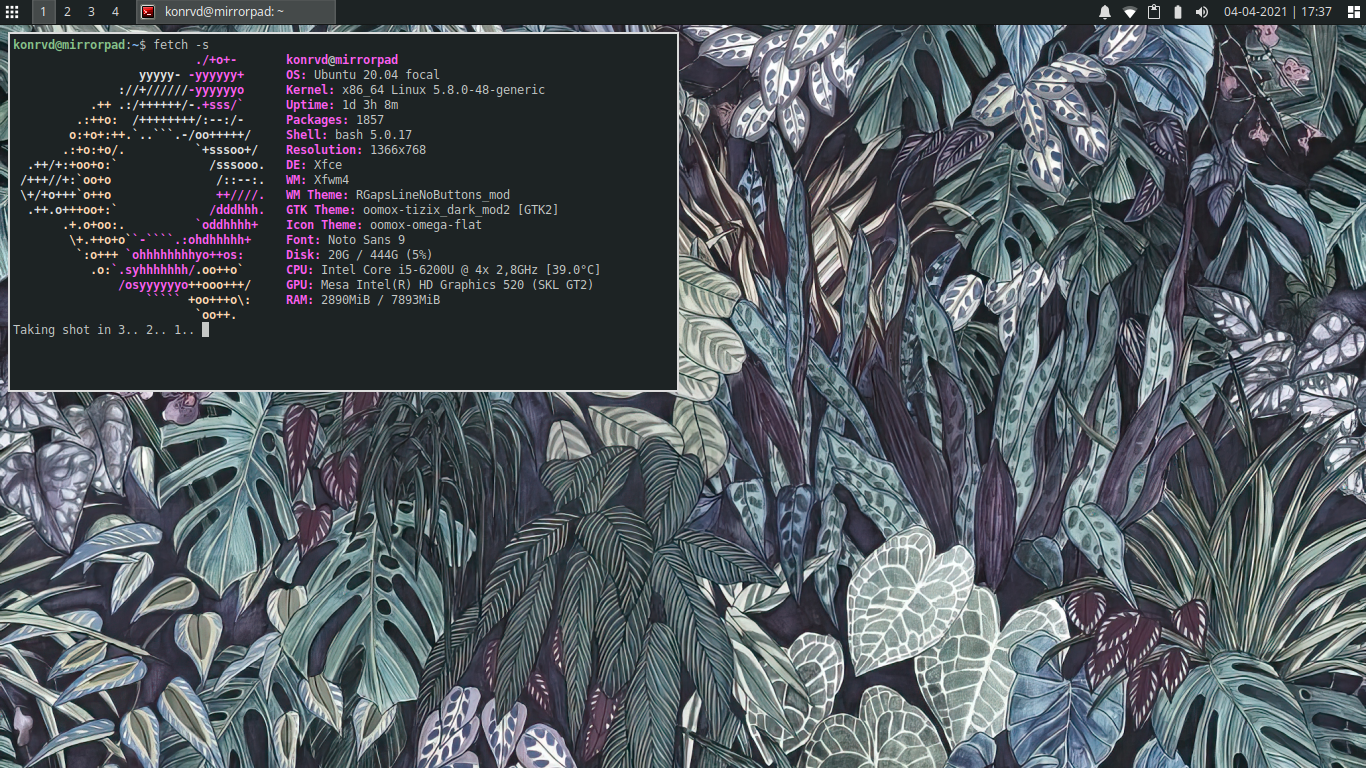
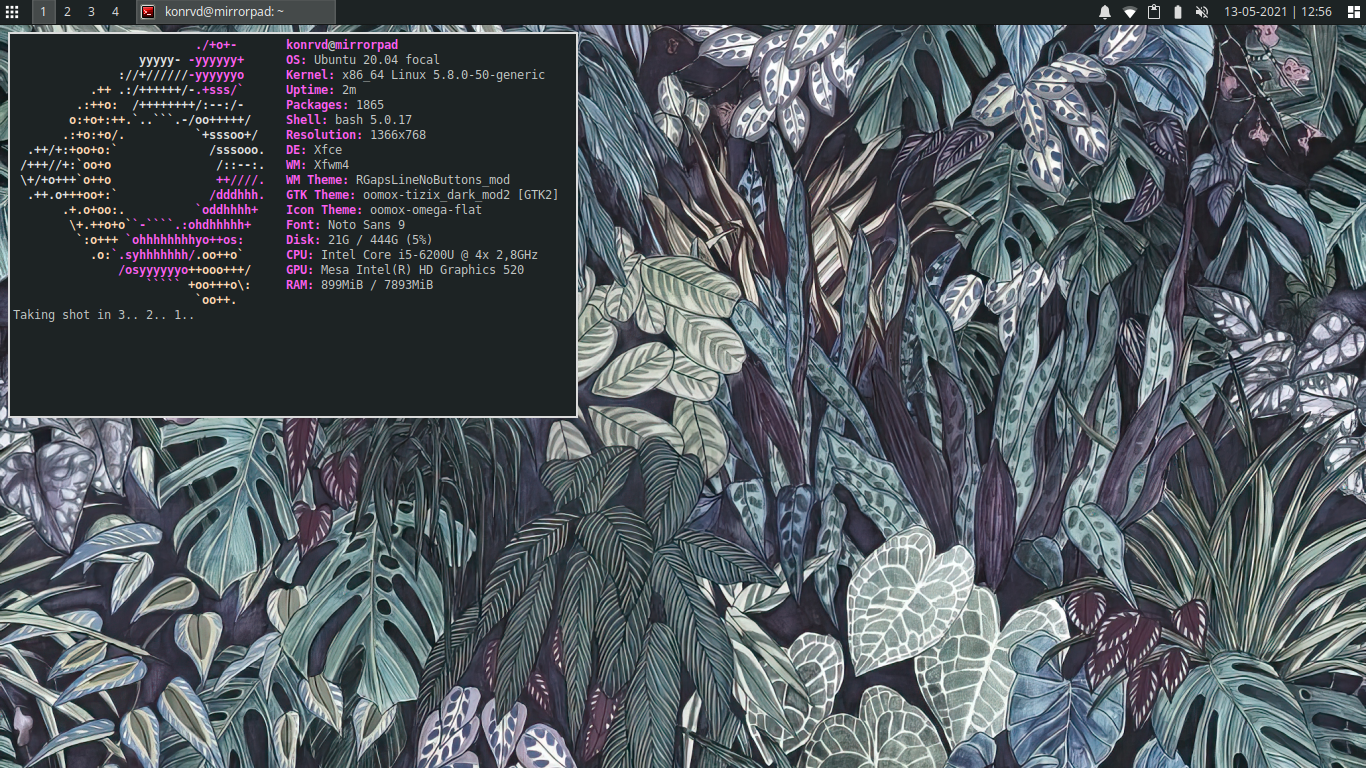
New post

Changed region(s): [[0.0, 0.0312, 0.5227, 0.5625], [0.9531, 0.0, 0.9839, 0.0312], [0.8917, 0.0, 0.9224, 0.0312]]

diff --git a/_site/2021/05/06/en-defensa-del-inviernismo.html b/_site/2021/05/06/en-defensa-del-inviernismo.html
@@ -1,0 +1,55 @@
+<!DOCTYPE html>
+<html>
+	<head>
+		<link rel="stylesheet" type="text/css" href="/css/terminal.css">
+		<link rel="stylesheet" type="text/css" href="/css/main.css">
+		<link rel="icon" type="image/vnd.microsoft.icon" href="/favicon.ico">
+		<meta name="viewport" content="width=device-width, initial-scale=1.0">
+		<meta charset="UTF-8">
+		<title>En defensa del inviernismo - Konrvd Mirror</title>
+	</head>
+	
+	<body>
+		<div class="container">
+			<aside class="container__sidebar">
+				<img src="/boxhead.png"/>
+				<center><h4>Konrvd&Dagger;Mirror</h4></center>
+				<nav>
+					<ul>
+						<li>[<a href="/" >Inicio</a>]</li>
+						<li>[<a href="/bio.html" >Bio</a>]</li>
+					</ul>
+				</nav>
+				2021
+			</aside>
+			<main class="container__main">
+				<br>
+06 / 05 / 2021
+<h1>En defensa del inviernismo</h1>	
+<p>En una interesante intersección del debate político y climático surge la pugna entre “inviernistas” y “veranistas”, lo que normalmente se atribuye a una mundana e inofensiva diferencia de preferencias entre el mismo tipo de personas que aun cuestiona el rol de la piña en la pizza o el orden de los ingredientes en un sándwich, cobra una profundidad que debería resultar esperable para los internautas mas experimentados.
+<!--sep--></p>
+
+<p>A lo largo del tiempo el factor de sorpresa se debilita después de haber observado incontables intentos de demostraciones morales mediante posiciones de indignación sobre diversos temas, con diversos niveles de sinceridad y sentido practico. Pero vale la pena prestar atención a los argumentos de quienes condenan a los “inviernistas”, pues esta indignación en primera instancia superficial, presenta un dilema digno de análisis.</p>
+
+<p>Aunque yo mismo me considero un entusiasta de los placeres invernales, que parten del simple acto de retener la mayor cantidad de calor posible, debo admitir que me resulta innecesaria la confrontación de ambas estaciones, cuando es evidente que ambas cumplen su respectivo propósito en el ciclo ecológico y en consecuencia nuestras vidas, pero sobre todo cuando ninguna de las dos puede competir en términos estéticos con el otoño o la primavera.</p>
+
+<p>Por otro lado, el cambio climático pareciera difuminar los elementos distintivos de las estaciones intermedias, lo que parece justificar el incremento en la intensidad con la que se producen los debates entre “inviernistas”  y “veranistas”, se vuelve casi inevitable el abanderarse por uno u otro. Entonces, una vez establecida la dicotomía surgen las reclamaciones y vindicaciones de los sospechosos de siempre, los agentes morales cuyas buenas intenciones se alzan sobre lo ilógico del debate.</p>
+
+<p>La triste realidad es que el invierno acentuá la miseria que ni los gobiernos o la economía han logrado derrotar, los sin techo sufren la ira que se precipita del cielo, la imparable invasión del barro y el viento que se lleva consigo las mínimas posesiones de los marginados. Al mismo tiempo algunos se regocijan a sus anchas en la agradable atmósfera del calor eléctrico, con pantuflas de cuero reno, cafe de grano en la prensa francesa, vinilo de United Future Organization sonando de fondo, etc.</p>
+
+<p>Invocar esta imagen de pronto revela una gran parte de la trivialidad detrás de este frívolo duelo, plantea una critica razonable de la sociedad post-moderna y nos recuerda del flagelo que las autoridades a duras penas logran maquillar. Lamentablemente la indignación no es proporcional respecto a la imagen del calor extremo, la sequía que discrimina en función del capital o la ausencia de arboles y áreas verdes para escapar del sol de verano que no conoce la misericordia.</p>
+
+<p>Obviamente no es culpa de quienes impulsan estas criticas el que la reacción publica no sea proporcional a la hora de evaluar ambas estaciones según las desgracias que dejan a su paso. No los podemos culpar por el hecho que sus criticas no tengan el alcance necesario para considerar todos los factores que influyen sobre estas realidades, como el factor geográfico, o el esfuerzo silencioso que cada ciudadano ejerce en la lucha contra estas formas de desigualdad.</p>
+
+<p>Al final es un grito en el abismo, las criticas por mas validas se pierden en la absoluta irrelevancia de las redes sociales, se mantienen como ecos en los pasillos de las oficinas de planificación urbana y desarrollo social. Sucede que el problema no es la existencia del invierno o de gente que lo disfrute dada su situación de privilegio, si no mas bien que aun no logramos expandir este privilegio a todos los habitantes del territorio.</p>
+
+<p>Ademas, es importante considerar la posibilidad que el cambio climático podría eventualmente quitarnos a todos el privilegio de contar aun con inviernos que traigan lluvias capaces de renovar nuestros sistemas hídricos y hacerle frente a los veranos que parecen extenderse con cada década. Comencemos a pensar en el “inviernismo” como un pilar en una vida armónica, no solo como una facción en una guerra imaginaria , como un ideal y no solo como un capricho burgués.</p>
+
+[<a href="javascript:history.back()">Volver</a>]
+
+			</main>
+		</div>		
+	</body>
+</html>
+<!--
+-->

diff --git a/_site/index.html b/_site/index.html
@@ -26,6 +26,33 @@
 				
 	<br>
 	<div class="terminal-card">
+		<header>screenfetch</header>
+		<div class="excerpt"><p><a href="/mirrorpad.png" target="_blank">
+<img src="/mirrorpad.png" />
+</a></p>
+
+<p><i>Feelin’ cute, might delete later.</i></p>
+</div>
+		<small>
+			[13 / 05 / 2021]
+			
+		</small>
+	</div>
+
+	<br>
+	<div class="terminal-card">
+		<header>En defensa del inviernismo</header>
+		<div class="excerpt"><p>En una interesante intersección del debate político y climático surge la pugna entre “inviernistas” y “veranistas”, lo que normalmente se atribuye a una mundana e inofensiva diferencia de preferencias entre el mismo tipo de personas que aun cuestiona el rol de la piña en la pizza o el orden de los ingredientes en un sándwich, cobra una profundidad que debería resultar esperable para los internautas mas experimentados.</p>
+
+</div>
+		<small>
+			[06 / 05 / 2021]
+			[<a href="/2021/05/06/en-defensa-del-inviernismo" title="Seguir leyendo">Seguir leyendo</a>]
+		</small>
+	</div>
+
+	<br>
+	<div class="terminal-card">
 		<header>Hola Mundo</header>
 		<div class="excerpt"><p>Si no escribía algo nuevamente me iba a explotar la cabeza, aun utilizo mi cabeza en muchas tareas diarias así que esto no era una opción. Era necesaria la primera piedra, un titulo demostrativo, luego un texto lo menos cargado posible con anhelos y proyecciones, para no correr el riesgo de invocar a la complacencia que ha condenado tantos proyectos.</p>
 

diff --git a/_site/2021/05/13/screenfetch.html b/_site/2021/05/13/screenfetch.html
@@ -1,0 +1,42 @@
+<!DOCTYPE html>
+<html>
+	<head>
+		<link rel="stylesheet" type="text/css" href="/css/terminal.css">
+		<link rel="stylesheet" type="text/css" href="/css/main.css">
+		<link rel="icon" type="image/vnd.microsoft.icon" href="/favicon.ico">
+		<meta name="viewport" content="width=device-width, initial-scale=1.0">
+		<meta charset="UTF-8">
+		<title>screenfetch - Konrvd Mirror</title>
+	</head>
+	
+	<body>
+		<div class="container">
+			<aside class="container__sidebar">
+				<img src="/boxhead.png"/>
+				<center><h4>Konrvd&Dagger;Mirror</h4></center>
+				<nav>
+					<ul>
+						<li>[<a href="/" >Inicio</a>]</li>
+						<li>[<a href="/bio.html" >Bio</a>]</li>
+					</ul>
+				</nav>
+				2021
+			</aside>
+			<main class="container__main">
+				<br>
+13 / 05 / 2021
+<h1>screenfetch</h1>	
+<p><a href="/mirrorpad.png" target="_blank">
+<img src="/mirrorpad.png" />
+</a></p>
+
+<p><i>Feelin’ cute, might delete later.</i></p>
+
+[<a href="javascript:history.back()">Volver</a>]
+
+			</main>
+		</div>		
+	</body>
+</html>
+<!--
+-->

diff --git a/_posts/2021-05-13-screenfetch.md b/_posts/2021-05-13-screenfetch.md
@@ -1,0 +1,10 @@
+---
+layout: post
+title:  screenfetch
+date:  2021-05-13
+---
+<a href="/mirrorpad.png" target="_blank">
+<img src="/mirrorpad.png"/>
+</a>
+
+<i>Feelin' cute, might delete later.</i>
